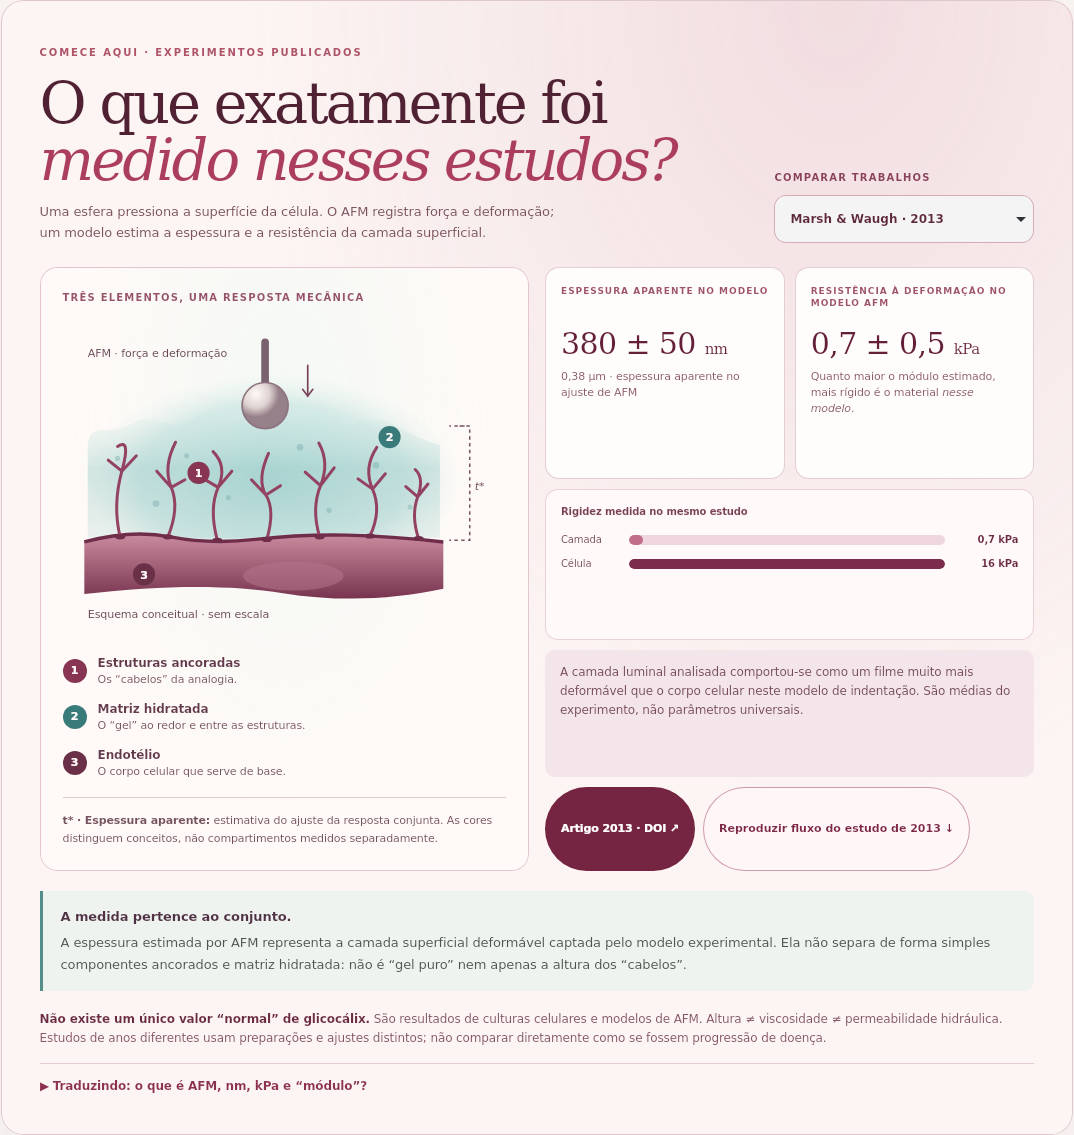
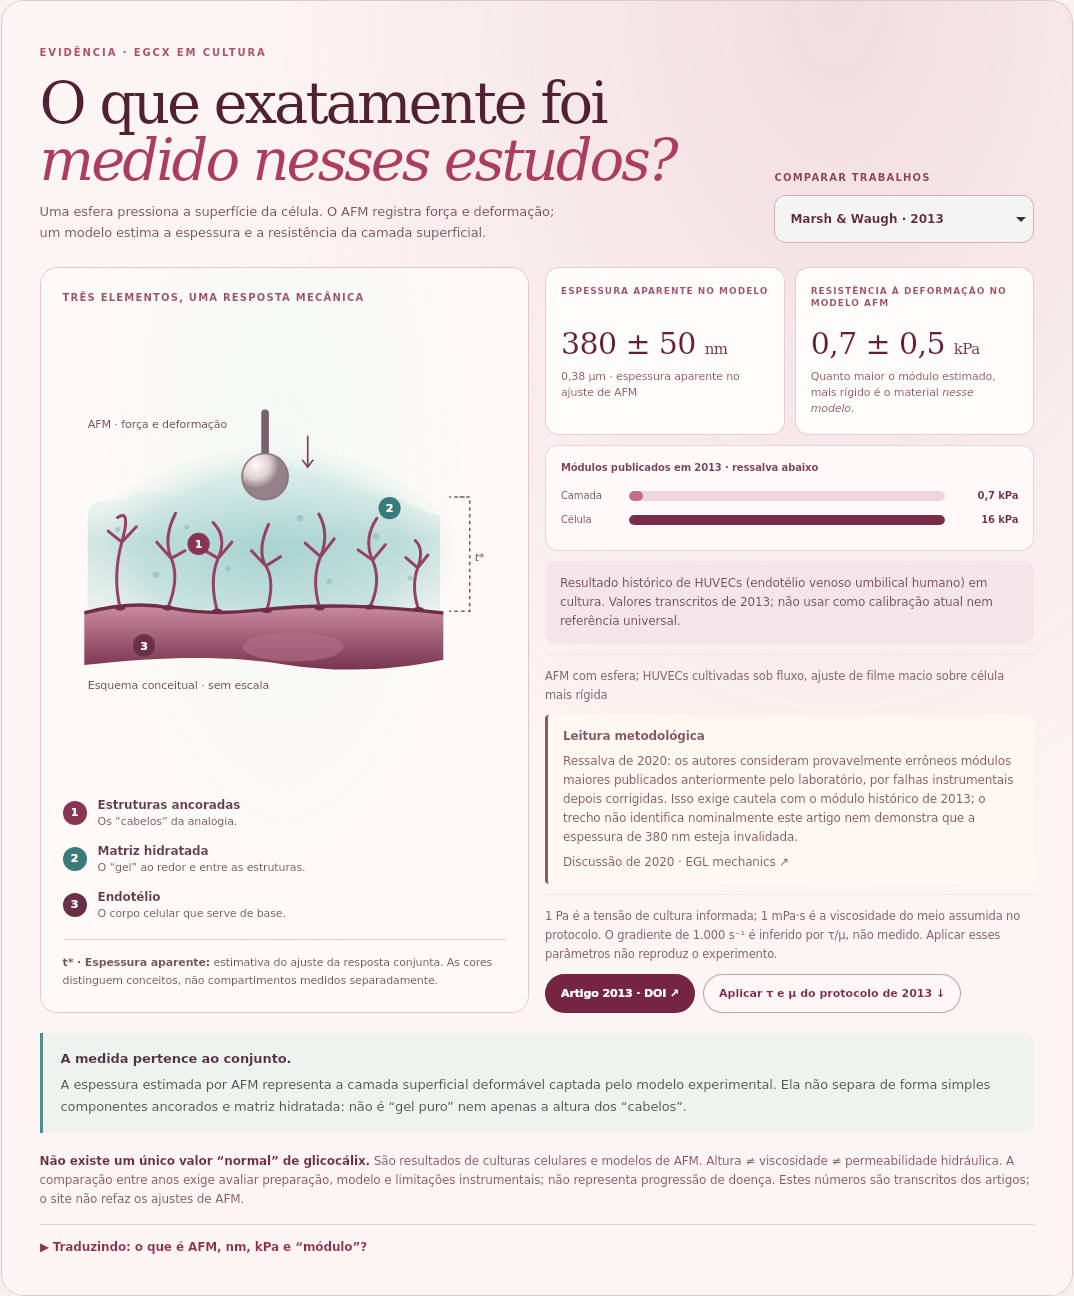
Atualizar evidências remotas da revisão metodológica do Laboratório

diff --git a/.github/review/afm/README.md b/.github/review/afm/README.md
@@ -1,10 +1,6 @@
-# Bloco AFM — estruturas, matriz hidratada e endotélio
+# Revisão visual e metodológica do Laboratório — PR #10
 
-Correção visual e conceitual limitada a `#lab-estudos`. O resto do HTML fonte do Laboratório permanece idêntico. Estudos canônicos, valores, fórmulas, home, navegação e skills do Claude não foram alterados.
-
-## Antes/depois
-
-Capturas de elemento em **WebKit no runner Linux do GitHub Actions**, desktop 1440 × 1000 e iPhone 13 **emulado** a 390 px, DPR 1. Não houve uso do Mac nem teste em aparelho físico. O cabeçalho móvel externo ao bloco foi ocultado somente durante a captura para não sobrepor o recorte longo; o produto mantém a navegação original.
+Versão da aplicação verificada: `12ea5364b323a4fb521b9d6ed4d976030b4aa25d`. Antes: `9548d353314a93769d0eec82ab6c740aac5db0fd`. Capturas em runners GitHub Ubuntu, WebKit; desktop 1440×1000 e iPhone 13 emulado a 390 px. Não são capturas de aparelhos físicos. Cabeçalho fixo externo ocultado apenas para capturas longas.
 
 | Desktop antes | Desktop depois |
 | --- | --- |
@@ -14,32 +10,16 @@ Capturas de elemento em **WebKit no runner Linux do GitHub Actions**, desktop 14
 | --- | --- |
 | ![Antes](webkit-iphone-before.jpg) | ![Depois](webkit-iphone-after.jpg) |
 
-## O que mudou
+## Verificações
+- [Build, 12 testes e navegadores](https://github.com/joyceradis/ESC/actions/runs/38112122881): Chromium + WebKit, desktop/iPhone emulado, larguras 320, 390, 768, 1024 e 1440 sem overflow; nenhum erro JS.
+- [Verificar site](https://github.com/joyceradis/ESC/actions/runs/38112122911): sintaxe, testes, sincronização HTML e links.
+- Seleção 2013/2020 preserva números, exibe contexto e ressalva corretos e não redimensiona filamentos.
+- Condição didática do protocolo de 2013 resulta em 1 Pa; gradiente inferido, viscosidade assumida, sem reproduzir AFM.
+- Darcy tem controle independente: alterar viscosidade do fluxo não muda Darcy; duplicar viscosidade permeante reduz sua velocidade pela metade.
+- Teclado e movimento reduzido exercitados. Capturas desktop/iPhone inspecionadas visualmente.
+- Os artefatos da execução incluem também 2020 e os painéis físicos. [Dados da verificação](validation.json).
 
-- Título: “O que exatamente foi medido nesses estudos?”.
-- Estruturas ancoradas em vinho, matriz hidratada translúcida ao redor/entre elas e corpo celular abaixo, com três marcadores, legenda e descrição acessível.
-- A espessura é apresentada como estimativa do ajuste da resposta conjunta de força/deformação. As cores são distinções didáticas, não compartimentos medidos separadamente.
-- Removida a transformação que encurtava apenas os filamentos quando se selecionava o artigo de 2020. O esquema permanece conceitual e sem escala; os dados continuam mudando.
-- “Altura aparente” no indicador foi substituída por “espessura aparente no modelo”. O texto explica que não se trata de gel puro nem simplesmente da altura dos “cabelos”.
-- A explicação expandida distingue o modelo de brush do modelo de camada elástica; preserva os números já exibidos para o ajuste elástico.
+## Escopo científico
+Ver [nota metodológica](../../../atlas/METODOLOGIA-LABORATORIO.md). A ressalva de 2020 qualifica módulos históricos sem inventar retratação nominal de 2013 ou invalidar automaticamente 380 nm. Cálculos didáticos, evidência endotelial e ilustrações são explicitamente diferenciados. Verificação de código não é validação experimental.
 
-## Fontes
-
-[Marsh & Waugh, 2013](https://pmc.ncbi.nlm.nih.gov/articles/PMC3605807/) descreve o ajuste da indentação por um modelo de filme macio sobre corpo celular mais rígido. [Delgadillo, Marsh & Waugh, 2020](https://pmc.ncbi.nlm.nih.gov/articles/PMC7136287/) compara modelos de brush e camada elástica, ilustrando a dependência das estimativas em relação ao modelo. A distinção visual proposta aqui não é uma medição separada da composição molecular.
-
-## Validação remota
-
-[Execução das evidências](https://github.com/joyceradis/ESC/actions/runs/38110067301) no commit `905541e529c6fa7900e1d42713fe581da4dcfabc`:
-
-- Build canônico, verificação de links/dados, sintaxe JS e 11 testes passaram.
-- Chrome e WebKit, perfis desktop e iPhone, cinco larguras (320, 390, 768, 1024, 1440): sem overflow no bloco.
-- Artigos 2013 e 2020 conservam espessura e módulo; visibilidade da comparação e do botão de fluxo responde corretamente.
-- O SVG permanece idêntico ao trocar artigo, evitando converter espessura ajustada em altura dos filamentos.
-- Botão de reproduzir fluxo continua produzindo 1 Pa.
-- Nenhum erro JavaScript nas verificações.
-- Capturas em movimento reduzido, inspecionadas; revisão estática independente sem achados acionáveis.
-- O HTML publicado no PR foi obtido da execução de `python3 build.py` no runner e incorporado pelo conector GitHub, sem geração manual/local.
-
-[Resultados estruturados](validation.json). As imagens deste diretório são permanentes no histórico da branch; as capturas adicionais para o estudo de 2020 estão no artefato da execução (retenção de 30 dias).
-
-PR para revisão da Joyce. Sem merge, auto-merge ou deploy.
+Esta revisão inclui ajustes fora do bloco AFM: rótulos/limitações dos exercícios, viscosidade independente de Darcy e remoção da flexão arbitrária das estruturas. Home, skills do Claude, estados de leitura e valores publicados preservados. Somente nuvem; sem merge, auto-merge ou deploy.
